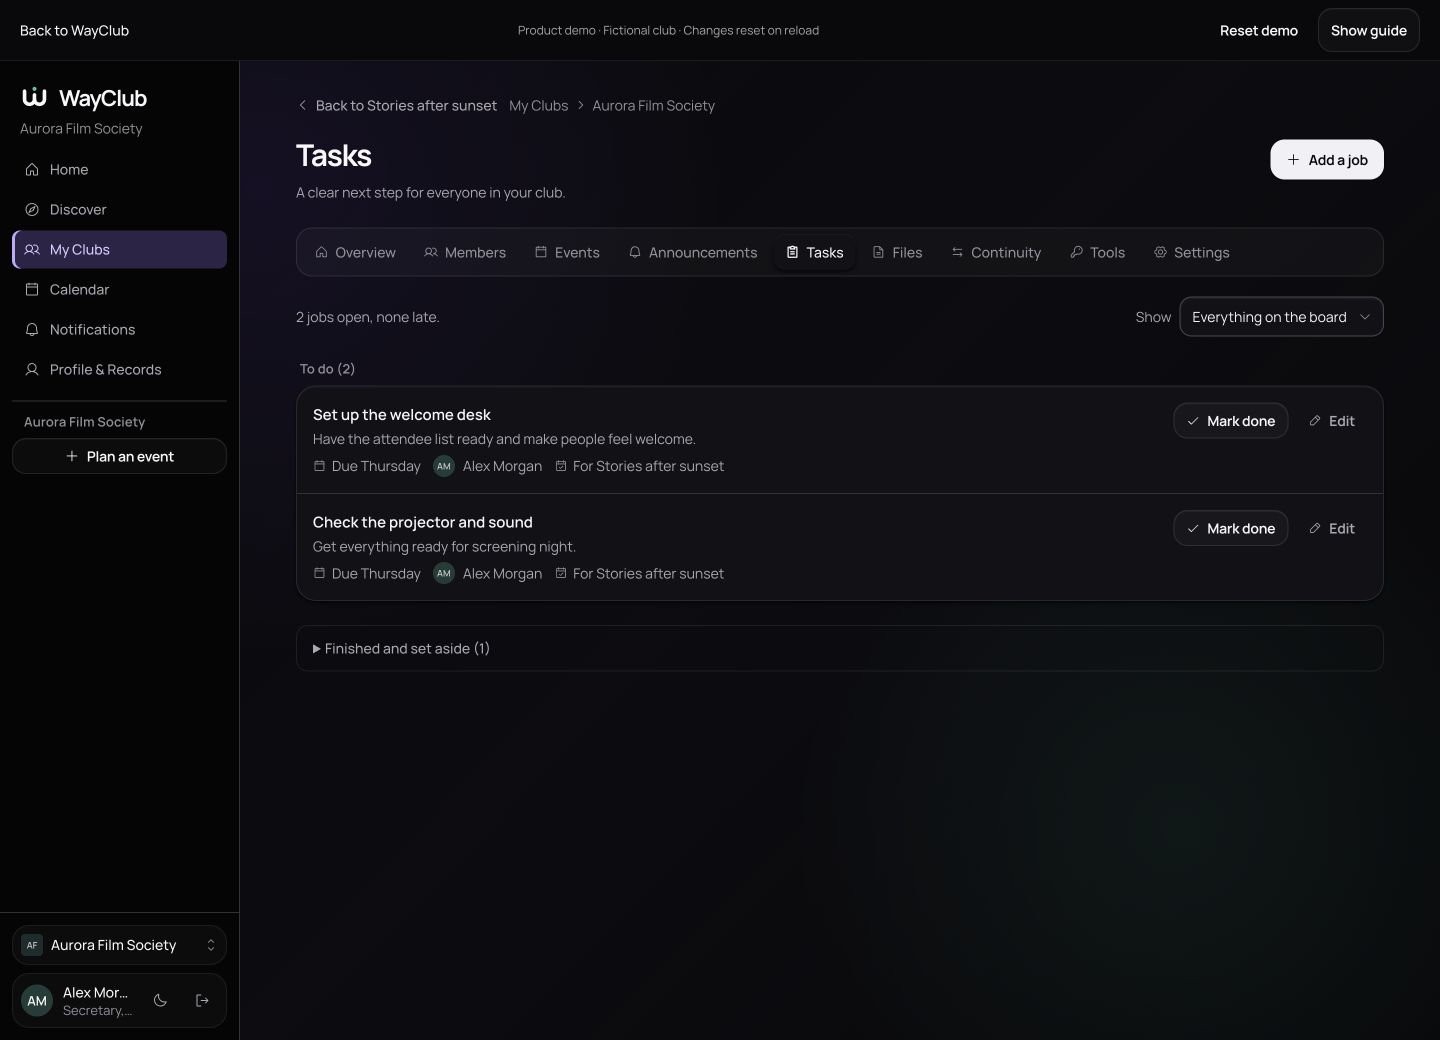
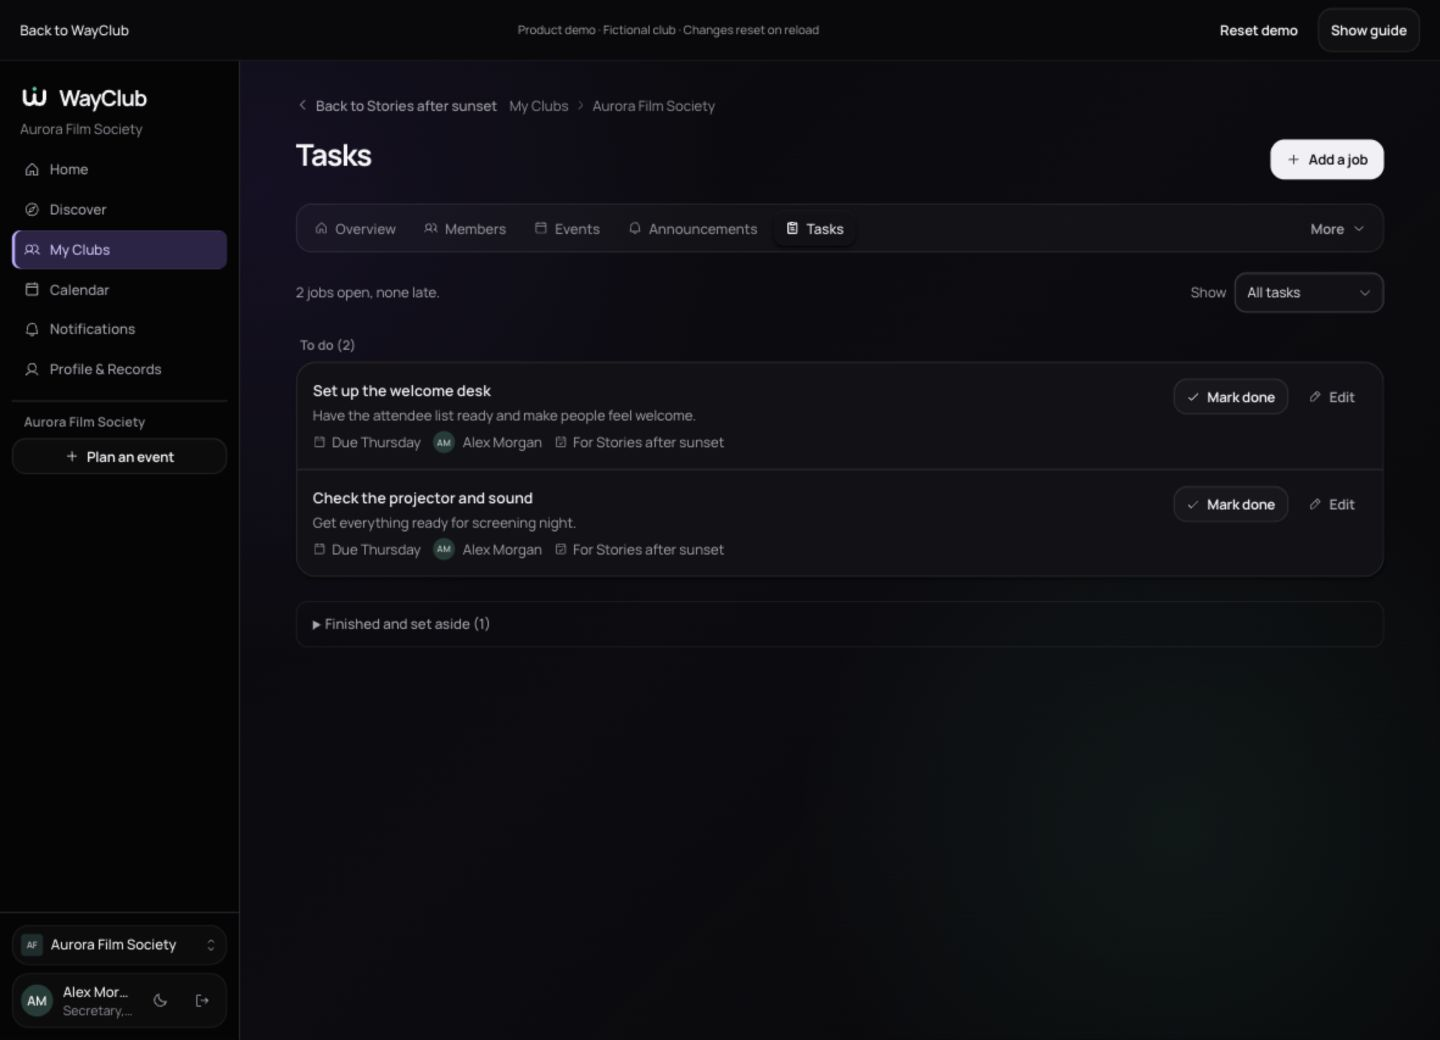
Replace the showcase screenshot with an interactive product preview
Use one Try WayClub entry and embed the live sample panel with responsive height handling. Refresh the task board capture and recorded verification counts.

diff --git a/site/index.html b/site/index.html
@@ -10,6 +10,7 @@
 @font-face{font-family:Manrope;src:url('assets/Manrope-var.woff2') format('woff2');font-weight:200 800;font-display:swap}
 :root{color-scheme:dark;--bg:#0b0a0e;--surface:#15131b;--ink:#f5f3fa;--muted:#b4afc0;--line:#ffffff16;--mint:#72d6b9;--violet:#c3b1f4}
 *{box-sizing:border-box}html{scroll-behavior:smooth;scroll-padding-top:28px}body{margin:0;background:var(--bg);color:var(--ink);font:15px/1.8 Manrope,system-ui,sans-serif}a{color:inherit;text-decoration:none}a:focus-visible{outline:3px solid var(--mint);outline-offset:5px;border-radius:8px}img{max-width:100%;height:auto;display:block}p{color:var(--muted);margin:0}h1,h2,h3{font-weight:600;line-height:1.08;letter-spacing:-.045em;margin:0}h1{font-size:clamp(56px,7vw,98px)}h2{font-size:clamp(34px,4vw,54px)}h3{font-size:23px;letter-spacing:-.025em}.wrap{max-width:1320px;padding:0 40px;margin:auto}.skip{position:absolute;left:16px;top:-100px}.skip:focus{top:10px;background:var(--surface);padding:12px;z-index:2}.brand{display:flex;align-items:center;gap:11px;font-size:24px;font-weight:750;letter-spacing:-1px}.brand img,.brand svg{width:31px;height:31px}header,footer{display:flex;align-items:center;justify-content:space-between;gap:20px;padding:28px 0;border-bottom:1px solid var(--line)}nav{display:flex;align-items:center;gap:28px}nav a{min-height:44px;display:inline-flex;align-items:center;color:var(--muted)}.hero{padding:70px 0 76px}.intro{display:grid;grid-template-columns:1.1fr 1fr;align-items:end;gap:60px;margin-bottom:44px}.intro p{max-width:440px;font-size:18px;line-height:1.8}.eyebrow{display:flex;gap:12px;align-items:center;color:var(--muted);font-size:13px;margin-bottom:24px}.eyebrow:before{content:"";height:5px;width:27px;border-radius:10px;background:var(--mint)}.actions{display:flex;flex-wrap:wrap;gap:12px;margin:28px 0 16px}.button{display:inline-flex;align-items:center;justify-content:center;min-height:48px;padding:10px 22px;border:1px solid var(--line);border-radius:14px;font-size:14px;font-weight:650;background:var(--surface);transition:background .16s,transform .16s}.button.primary{background:var(--ink);color:var(--bg)}.button:hover{transform:translateY(-2px);background:#282230}.button.primary:hover{background:#e6dff5}.note{font-size:12px!important;line-height:1.7!important}.preview{overflow:hidden;border:1px solid var(--line);border-radius:24px;background:var(--surface);box-shadow:0 25px 90px #0005}.preview-bar{display:flex;justify-content:space-between;gap:20px;padding:13px 20px;border-bottom:1px solid var(--line);font-size:12px;color:var(--muted)}.preview img{width:100%}.section{padding:74px 0;border-top:1px solid var(--line)}.section-heading{display:grid;grid-template-columns:1fr 1fr;gap:65px;align-items:end;margin-bottom:44px}.section-heading p{max-width:490px}.features{display:grid;grid-template-columns:repeat(3,1fr);gap:40px}.features article{padding-top:26px;border-top:1px solid var(--line)}.features p{margin-top:15px}.split{display:grid;grid-template-columns:1fr 1.4fr;align-items:center;gap:50px}.split p{margin:22px 0}.status{padding:30px;border:1px solid var(--line);border-radius:20px;background:var(--surface)}.status h3{margin-bottom:14px}.status p+p{margin-top:16px}.status a,.text-link{color:var(--violet);text-decoration:underline;text-underline-offset:4px}.engineering{display:grid;grid-template-columns:1fr 1fr;gap:24px 50px}.engineering article{border-bottom:1px solid var(--line);padding-bottom:22px}.engineering h3{font-size:19px;line-height:1.4;margin-bottom:10px}footer{border-bottom:0;border-top:1px solid var(--line);margin-top:30px;font-size:12px}footer a{color:var(--muted)}
+@media(max-width:1023px){.product-frame{height:830px!important}}
 @media(max-width:800px){.wrap{padding:0 22px}.intro,.section-heading,.split{grid-template-columns:1fr;gap:28px}.hero{padding:48px 0}.features{grid-template-columns:1fr;gap:26px}.engineering{grid-template-columns:1fr}.section{padding:52px 0}nav{gap:18px}nav .optional{display:none}.intro p{font-size:16px}.preview{border-radius:18px}.preview-bar{padding:10px 14px}.preview-bar span:last-child{display:none}footer{flex-wrap:wrap}.status{padding:24px}}
 @media(prefers-reduced-motion:reduce){html{scroll-behavior:auto}.button{transition:none}.button:hover{transform:none}}
 </style>
@@ -17,9 +18,10 @@
 <body><a class="skip" href="#main">Skip to content</a><div class="wrap">
 <header><a class="brand" href="#" aria-label="WayClub home"><svg xmlns="http://www.w3.org/2000/svg" viewBox="0 0 32 32" aria-hidden="true" style="--wc-mark-point:var(--mint)"><title>WayClub</title><path d="M5 9v9a5.5 5.5 0 0 0 11 0v-5m0 5a5.5 5.5 0 0 0 11 0V9" fill="none" stroke="currentColor" stroke-width="4" stroke-linecap="round" stroke-linejoin="round"/><circle cx="16" cy="6.5" r="2.2" fill="var(--wc-mark-point, currentColor)"/></svg>WayClub</a><nav aria-label="Main navigation"><a class="optional" href="#product">The product</a><a class="optional" href="#engineering">Engineering</a><a href="https://wayclub-live-demo.web.app">Explore demo</a></nav></header>
 <main id="main">
-<section class="hero"><div class="intro"><div><span class="eyebrow">A home for your club</span><h1>Your club.<br>All together.</h1></div><div><p>Bring your people, events and plans into one place. Less chasing the details. More doing things together.</p><div class="actions"><a class="button primary" href="https://wayclub-live-demo.web.app">Explore WayClub</a><a class="button" href="https://wayclub-live-demo.web.app/home?tour=1">Take the guided tour</a></div><p class="note">Real product interface. Fictional sample data. No sign-in needed.</p></div></div><a class="preview" style="display:block" href="https://wayclub-live-demo.web.app/home" aria-label="Explore the WayClub workspace"><div class="preview-bar"><span>Inside WayClub</span><span>Open the interactive demo →</span></div><img src="assets/screens/2026-09-workspace.jpg" width="1440" height="1040" alt="WayClub home with its sidebar, club events and organising view"></a></section>
+<section class="hero"><div class="intro"><div><span class="eyebrow">A home for your club</span><h1>Your club.<br>All together.</h1></div><div><p>Bring your people, events and plans into one place. Less chasing the details. More doing things together.</p><div class="actions"><a class="button primary" href="https://wayclub-live-demo.web.app/home?tour=1">Try WayClub →</a></div><p class="note">Real product interface. Fictional sample data. No sign-in needed.</p></div></div><div class="preview"><iframe title="Interactive WayClub product preview" src="https://wayclub-live-demo.web.app/embed" loading="lazy" sandbox="allow-scripts allow-same-origin allow-top-navigation-by-user-activation" style="display:block;width:100%;height:450px;border:0" class="product-frame"></iframe></div></section>
 <section id="product" class="section"><div class="section-heading"><h2>From the first hello<br>to the next committee.</h2><p>Independent clubs and university communities need a place for the work around getting together. WayClub keeps the people, plans and decisions connected.</p></div><div class="features"><article><h3>Find your people.</h3><p>Discover the club, see what is coming up and keep your registrations close. One account belongs across your clubs.</p></article><article><h3>Make it happen.</h3><p>Plan an event, share the jobs and welcome attendees. Reviews and registration stay attached to the same event.</p></article><article><h3>Keep it going.</h3><p>Carry useful records, responsibilities and equipment into the next term, with an explicit handover.</p></article></div></section>
 <section class="section split"><div><h2>A place for<br>the organising.</h2><p>Clear jobs, named owners and visible progress. The demo uses WayClub’s actual screens and forms, so you can try the flow yourself.</p><a class="button" href="https://wayclub-live-demo.web.app/clubs/00000000-0000-4000-8000-000400000071/tasks">Try the task board</a></div><div class="preview"><img src="assets/screens/2026-09-tasks.jpg" width="1440" height="1040" loading="lazy" alt="WayClub’s task board with assigned jobs and completion actions"></div></section>
 <section id="engineering" class="section"><div class="section-heading"><h2>Built around<br>trustworthy club work.</h2><p>The source is private. The public engineering notes explain the permissions, workflow and design decisions behind the product.</p></div><div class="engineering"><article><h3>One durable event record</h3><p>Draft, review, registration, attendance and close-out stay connected. Versioned workflows and concurrency checks protect decisions.</p></article><article><h3>Tenant-bound access</h3><p>NestJS and PostgreSQL enforce permissions and row-level security. The browser is never the authority for a club’s private data.</p></article><article><h3>A shared visual language</h3><p>React and Next.js use common design tokens, soft surfaces, consistent controls and motion that respects reduced-motion preferences.</p></article><article><h3>A separate demo boundary</h3><p>The static Firebase demo uses isolated sample data. It cannot create real accounts, send mail or modify a customer workspace.</p></article></div><p style="margin-top:28px"><a class="text-link" href="https://github.com/yeegz/WayClub-showcase#engineering-notes">Read the engineering notes</a></p></section>
-<section id="status" class="section"><div class="status"><h3>The demo is live. Full deployment is still in progress.</h3><p>As of 8 September 2026, the public Firebase demo is available to explore. The replacement application backend, email sender and production operations still need setup and hosted verification.</p><p>Latest recorded checks include 710 web tests on 8 September and 714 API integration tests on 6 September. These are development checks, not a production-readiness or adoption claim. <a href="https://github.com/yeegz/WayClub-showcase#current-release-status">Read the current status</a>.</p></div></section>
-</main><footer><a class="brand" href="#">WayClub</a><p>For the people who make clubs happen.</p><a href="https://github.com/yeegz/WayClub-showcase">GitHub showcase</a></footer></div></body></html>
+<section id="status" class="section"><div class="status"><h3>The demo is live. Full deployment is still in progress.</h3><p>As of 8 September 2026, the public Firebase demo is available to explore. The replacement application backend, email sender and production operations still need setup and hosted verification.</p><p>Latest recorded checks include 714 web tests on 8 September and 714 API integration tests on 6 September. These are development checks, not a production-readiness or adoption claim. <a href="https://github.com/yeegz/WayClub-showcase#current-release-status">Read the current status</a>.</p></div></section>
+</main><footer><a class="brand" href="#">WayClub</a><p>For the people who make clubs happen.</p><a href="https://github.com/yeegz/WayClub-showcase">GitHub showcase</a></footer></div><script src="preview.js"></script>
+</body></html>

diff --git a/site/preview.js b/site/preview.js
@@ -1,0 +1,7 @@
+const preview = document.querySelector(".product-frame");
+window.addEventListener("message", (event) => {
+  if (!preview || event.origin !== "https://wayclub-live-demo.web.app" || event.source !== preview.contentWindow) return;
+  const data = event.data;
+  if (data?.type !== "wayclub-preview-height" || !Number.isFinite(data.height) || data.height < 100 || data.height > 2000) return;
+  preview.style.setProperty("height", `${data.height}px`, "important");
+});

diff --git a/README.md b/README.md
@@ -67,7 +67,7 @@ Latest recorded checks:
 
 | Check | Evidence |
 | --- | --- |
-| Web tests, 8 September | 710 passed across 84 files. |
+| Web tests, 8 September | 714 passed across 85 files. |
 | API integration, 6 September | 714 passed across 52 files. |
 | Isolated database checks, 6 September | 104 passed across two files. |
 | Builds | Production Next.js and isolated demo builds passed. |
